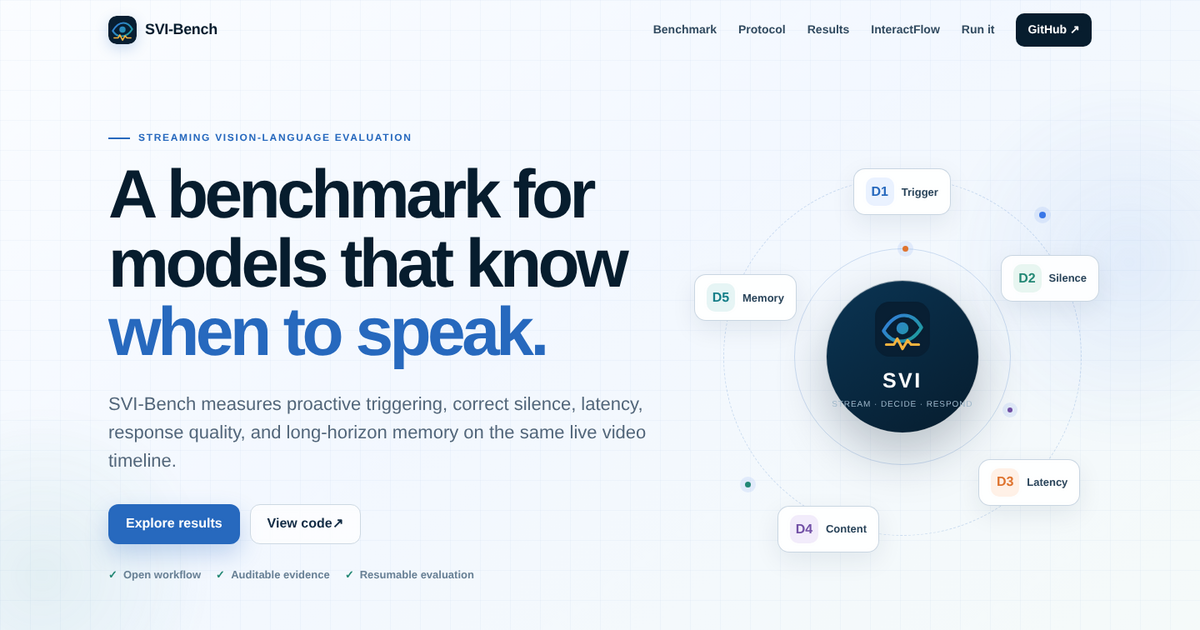
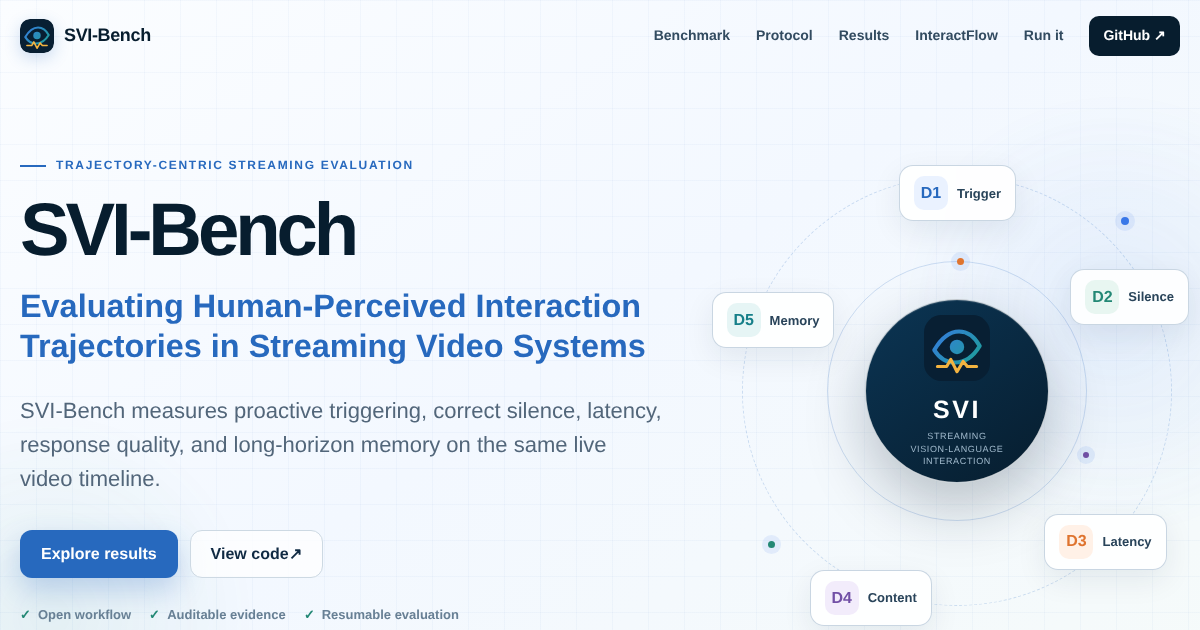
Align project page with final paper title

diff --git a/docs/index.html b/docs/index.html
@@ -7,10 +7,10 @@
     <meta name="author" content="SVI-Bench Team, JD.com">
     <meta
       name="description"
-      content="SVI-Bench evaluates streaming vision-language interaction across proactive triggering, silence, latency, response correctness, and long-horizon memory."
+      content="SVI-Bench evaluates human-perceived interaction trajectories in streaming video systems across proactive triggering, silence, latency, response correctness, and long-horizon memory."
     >
     <meta property="og:type" content="website">
-    <meta property="og:title" content="SVI-Bench — Streaming Vision-Language Interaction">
+    <meta property="og:title" content="SVI-Bench: Evaluating Human-Perceived Interaction Trajectories in Streaming Video Systems">
     <meta
       property="og:description"
       content="75 items, five observable dimensions, synchronized recordings, and a human-calibrated five-stage Judge."
@@ -21,7 +21,7 @@
     >
     <meta name="twitter:card" content="summary_large_image">
     <link rel="canonical" href="https://yidanhai.github.io/SVI-Bench/">
-    <title>SVI-Bench — Streaming Vision-Language Interaction</title>
+    <title>SVI-Bench: Evaluating Human-Perceived Interaction Trajectories in Streaming Video Systems</title>
     <link rel="icon" href="assets/svibench-mark.svg" type="image/svg+xml">
     <script>document.documentElement.classList.add('js');</script>
     <link rel="stylesheet" href="styles.css">
@@ -68,11 +68,11 @@
         <div class="hero-glow hero-glow-b"></div>
         <div class="shell hero-grid">
           <div class="hero-copy reveal">
-            <p class="eyebrow"><span></span> Streaming vision-language evaluation</p>
-            <h1>
-              A benchmark for models that know
-              <em>when to speak.</em>
-            </h1>
+            <p class="eyebrow"><span></span> Trajectory-centric streaming evaluation</p>
+            <h1>SVI-Bench</h1>
+            <p class="hero-paper-title">
+              Evaluating Human-Perceived Interaction Trajectories in Streaming Video Systems
+            </p>
             <p class="hero-lead">
               SVI-Bench measures proactive triggering, correct silence,
               latency, response quality, and long-horizon memory on the same
@@ -569,11 +569,11 @@
           <div class="citation-box reveal">
             <button type="button" data-copy-citation>Copy BibTeX</button>
             <pre><code data-citation>@misc{lin2026svibench,
-  title  = {SVI-Bench: A Benchmark for Streaming Vision-Language
-            Interaction with Latency, Silence, and Long-Horizon Memory},
+  title  = {SVI-Bench: Evaluating Human-Perceived Interaction Trajectories
+            in Streaming Video Systems},
   author = {Jianan Lin and Yidan Huang and Xiaoyi Qiao and Dongyi Lv and
             Yicheng Wang and Shi Suo and Shiying Fan and Yifei Li and
-            Dingyu Yao and Junhao Zhou and Chuanyu Qin and Chenxu Yang and
+            Dingyu Yao and Chenxu Yang and Junhao Zhou and Chuanyu Qin and
             Qingyi Si and Nan Duan and Jiaqi Wang},
   year   = {2026},
   url    = {https://github.com/YidanHAI/SVI-Bench}
@@ -593,7 +593,7 @@
           <p>Streaming vision-language interaction, measured on the timeline.</p>
         </div>
         <div class="footer-meta">
-          <p>Jianan Lin*, Yidan Huang*, Xiaoyi Qiao*, Dongyi Lv, Yicheng Wang, Shi Suo, Shiying Fan, Yifei Li, Dingyu Yao, Junhao Zhou, Chuanyu Qin, Chenxu Yang, Qingyi Si†, Nan Duan†, Jiaqi Wang†</p>
+          <p>Jianan Lin*, Yidan Huang*, Xiaoyi Qiao*, Dongyi Lv, Yicheng Wang, Shi Suo, Shiying Fan, Yifei Li, Dingyu Yao, Chenxu Yang, Junhao Zhou, Chuanyu Qin, Qingyi Si†, Nan Duan†, Jiaqi Wang†</p>
           <p>JD.com · * Equal contribution · † Corresponding authors</p>
         </div>
       </div>

diff --git a/docs/styles.css b/docs/styles.css
@@ -286,6 +286,15 @@ pre {
   font-style: normal;
 }
 
+.hero-paper-title {
+  max-width: 720px;
+  margin: 20px 0 0;
+  color: var(--blue);
+  font-size: clamp(24px, 2.7vw, 36px);
+  font-weight: 750;
+  line-height: 1.22;
+}
+
 .hero-lead {
   max-width: 690px;
   margin: 28px 0 0;
@@ -1753,6 +1762,7 @@ tr.winner td:last-child {
     justify-content: center;
   }
 
+  .hero-paper-title,
   .hero-lead {
     margin-inline: auto;
   }

diff --git a/README.md b/README.md
@@ -2,7 +2,7 @@
 
 # SVI-Bench
 
-### A Benchmark for Streaming Vision-Language Interaction with Latency, Silence, and Long-Horizon Memory
+### Evaluating Human-Perceived Interaction Trajectories in Streaming Video Systems
 
 **SVI-Bench** evaluates *when* a vision-language system speaks, *when* it stays
 silent, *how quickly* it responds, *what* it says, and *what it remembers*.
@@ -454,11 +454,11 @@ If you use SVI-Bench or InteractFlow, please cite the accompanying manuscript:
 
 ```bibtex
 @misc{lin2026svibench,
-  title  = {SVI-Bench: A Benchmark for Streaming Vision-Language Interaction
-            with Latency, Silence, and Long-Horizon Memory},
+  title  = {SVI-Bench: Evaluating Human-Perceived Interaction Trajectories
+            in Streaming Video Systems},
   author = {Jianan Lin and Yidan Huang and Xiaoyi Qiao and Dongyi Lv and
             Yicheng Wang and Shi Suo and Shiying Fan and Yifei Li and
-            Dingyu Yao and Junhao Zhou and Chuanyu Qin and Chenxu Yang and
+            Dingyu Yao and Chenxu Yang and Junhao Zhou and Chuanyu Qin and
             Qingyi Si and Nan Duan and Jiaqi Wang},
   year   = {2026},
   url    = {https://github.com/YidanHAI/SVI-Bench}
